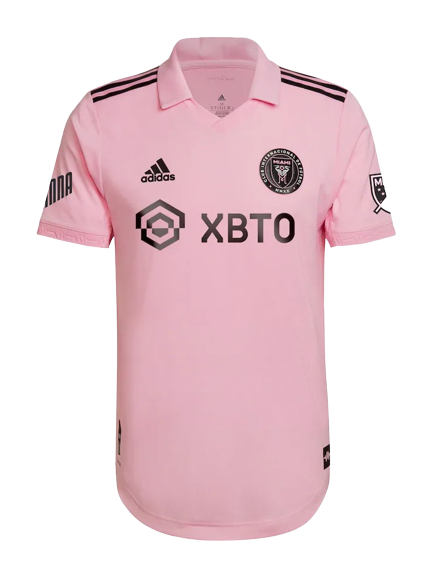
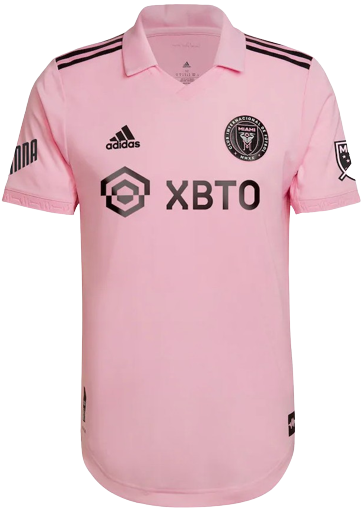
cssmainnuevo

Changed region(s): [[0.0, 0.0, 1.0, 1.0], [0.6061, 0.1765, 0.6364, 0.2059]]

diff --git a/Main Page/mainpage.html b/Main Page/mainpage.html
@@ -82,7 +82,7 @@
           </section> 
          <section id="productos">
               <div class="items">
-                  <div  class="arriba1"></div>
+                <img class="arriba" src="./Recursos/Camisas/Camisa Inter Miami 2.png" alt="Camisa Inter Miami">
                   <div class="abajo">
                       <h1>Inter Miami</h1>
                       <p>$19.95 - $159.95</p>
@@ -90,7 +90,7 @@
                   </div>
               </div>
               <div class="items">
-                  <div class="arriba2"></div>
+                <img class="arriba" src="./Recursos/Camisas/Camisa Inter Milan.png" alt="Camisa Inter Milan">
                   <div class="abajo">
                       <h1>Inter De Milán</h1>
                       <p>$14.95 - $119.95</p>
@@ -98,7 +98,7 @@
                   </div>
               </div>
               <div class="items">
-                  <div class="arriba3"></div>
+                <img class="arriba" src="./Recursos/Camisas/Spurs.png" alt="Camisa Tottenham">
                   <div class="abajo">
                       <h1>Tottenham</h1>
                       <p>$26.00</p>
@@ -106,7 +106,7 @@
                   </div>
               </div>
               <div class="items">
-                  <div class="arriba4"></div>
+                <img class="arriba" src="./Recursos/Camisas/Francia.png" alt="Camisa Francia">
                   <div class="abajo">
                       <h1>France</h1>
                       <div class="pc"><p class="pn">$28.00</p> <p class="pv">$31.00</p></div>
@@ -124,7 +124,7 @@
           </section>
           <section id="productos2">
           <div class="items">
-              <div class="arriba5"></div>
+            <img class="arriba" src="./Recursos/Camisas/Camisa Inglaterra.png" alt="Camisa Inglaterra">
               <div class="abajo">
                   <h1>England</h1>
                   <p>$26.00 - $29.00</p>
@@ -132,7 +132,7 @@
               </div>
           </div>
           <div class="items">
-              <div class="arriba6"></div>
+            <img class="arriba" src="./Recursos/Camisas/Camisa Roma.png" alt="Camisa Roma">
               <div class="abajo">
                   <h1>Roma</h1>
                   <p>$26.00 - $29.00</p>
@@ -140,7 +140,7 @@
               </div>
           </div>
               <div class="items">
-                  <div class="arriba7"></div>
+                <img class="arriba" src="./Recursos/Camisas/Camisa Al - Nsr.png" alt="Camisa Al-Nsr">
                   <div class="abajo">
                       <h1>Al Nassr</h1>
                       <p>$26.00 - $29.00</p>
@@ -148,7 +148,7 @@
                   </div>
           </div>
               <div class="items">
-                  <div class="arriba8"></div>
+                <img class="arriba" src="./Recursos/Camisas/Camisa Italia.png" alt="Camisa Italia">
                   <div class="abajo">
                       <h1>Italy</h1>
                       <div class="pc"><p class="pn">$28.00</p><p class="pv">$31.00</p></div>

diff --git a/Main Page/mianpage.css b/Main Page/mianpage.css
@@ -281,77 +281,8 @@ a{
     position: absolute;
     right: 50px;
 }
-.arriba1{
-    /*border: solid;*/
-    height: 80%;
-    background-image: url(./Recursos/Camisas/Camisa\ Inter\ Miami.png);
-    background-size: cover;
-    background-position: center center;
-    background-size: contain;
-    background-repeat: no-repeat;
-}
-.arriba2{
-    /*border: solid;*/
-    height: 80%;
-    background-image: url(./Recursos/Camisas/Camisa\ Inter\ Milan.png);
-    background-size: cover;
-    background-position: center center;
-    background-size: contain;
-    background-repeat: no-repeat;
-}
-.arriba3{
-    /*border: solid;*/
-    height: 80%;
-    background-image: url(./Recursos/Camisas/Spurs.png);
-    background-size: cover;
-    background-position: center center;
-    background-size: contain;
-    background-repeat: no-repeat;
-}
-.arriba4{
-    /*border: solid;*/
-    height: 80%;
-    background-image: url(./Recursos/Camisas/Francia.png);
-    background-size: cover;
-    background-position: center center;
-    background-size: contain;
-    background-repeat: no-repeat;
-}
-.arriba5{
-    /*border: solid;*/
-    height: 80%;
-    background-image: url(./Recursos/Camisas/Camisa\ Inglaterra.png);
-    background-size: cover;
-    background-position: center center;
-    background-size: contain;
-    background-repeat: no-repeat;
-}
-.arriba6{
-    /*border: solid;*/
-    height: 80%;
-    background-image: url(./Recursos/Camisas/Camisa\ Roma.png);
-    background-size: cover;
-    background-position: center center;
-    background-size: contain;
-    background-repeat: no-repeat;
-}
-.arriba7{
-    /*border: solid;*/
-    height: 80%;
-    background-image: url(./Recursos/Camisas/Camisa\ Al\ -\ Nsr.png);
-    background-size: cover;
-    background-position: center center;
-    background-size: contain;
-    background-repeat: no-repeat;
-}
-.arriba8{
-    /*border: solid;*/
-    height: 80%;
-    background-image: url(./Recursos/Camisas/Camisa\ Italia.png);
-    background-size: cover;
-    background-position: center center;
-    background-size: contain;
-    background-repeat: no-repeat;
+.arriba{
+    width: 20vw;
 }
 .filtrador{
     /*border: solid;*/
